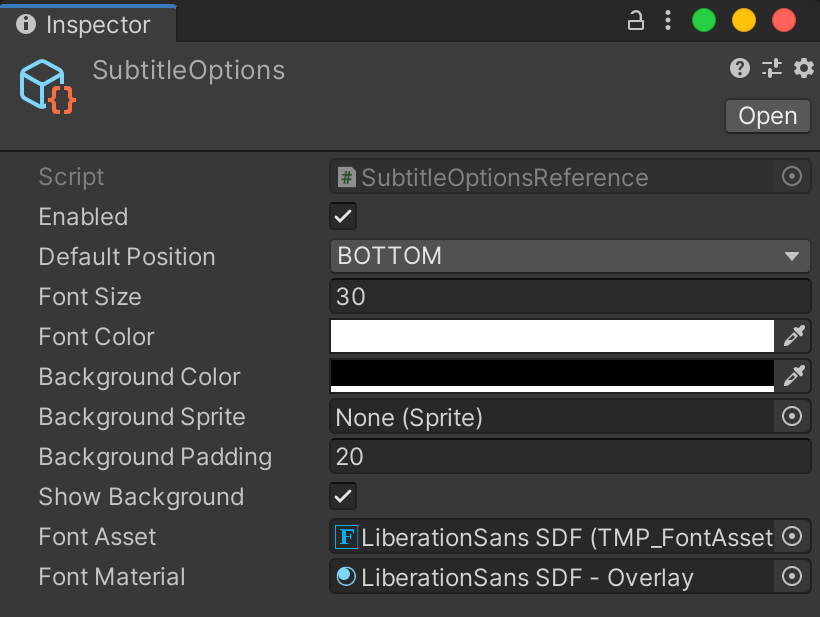
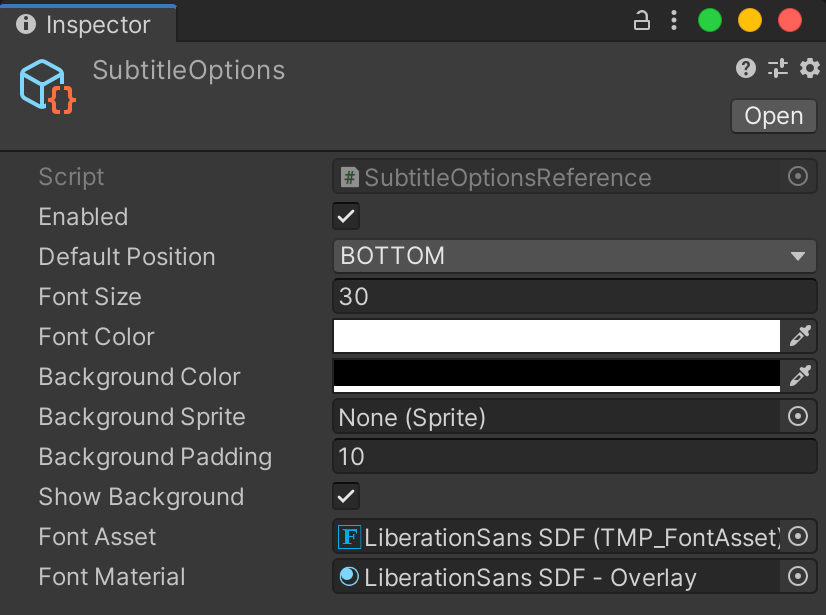
Changed default padding value.

diff --git a/Assets/Plugins/A11YTK/Scripts/SubtitleOptionsReference.cs b/Assets/Plugins/A11YTK/Scripts/SubtitleOptionsReference.cs
@@ -39,7 +39,7 @@ namespace A11YTK
 
         public Sprite backgroundSprite;
 
-        public float backgroundPadding = 20;
+        public float backgroundPadding = 10;
 
         public bool showBackground = true;
 

diff --git a/README.md b/README.md
@@ -60,7 +60,7 @@ Drag the `Subtitle Options` asset into the `Subtitle Options` property of the `S
 | Font Color         | Subtile font color                                     | `White`  |
 | Background Color   | Background color that appears behind subtitle text     | `Black`  |
 | Background Sprite  | Optional 9-splice sprite.                              | `Null`   |
-| Background Padding | Padding around the text inside the background.         | `20`     |
+| Background Padding | Padding around the text inside the background.         | `10`     |
 | Show Background    | Toggle subtitle background on or off.                  | `On`     |
 | Font Asset         | TextMeshPro font to render subtitle with.              | `Null`   |
 | Font Material      | TextMeshPro material to use with the TextMeshPro font. | `Null`   |
